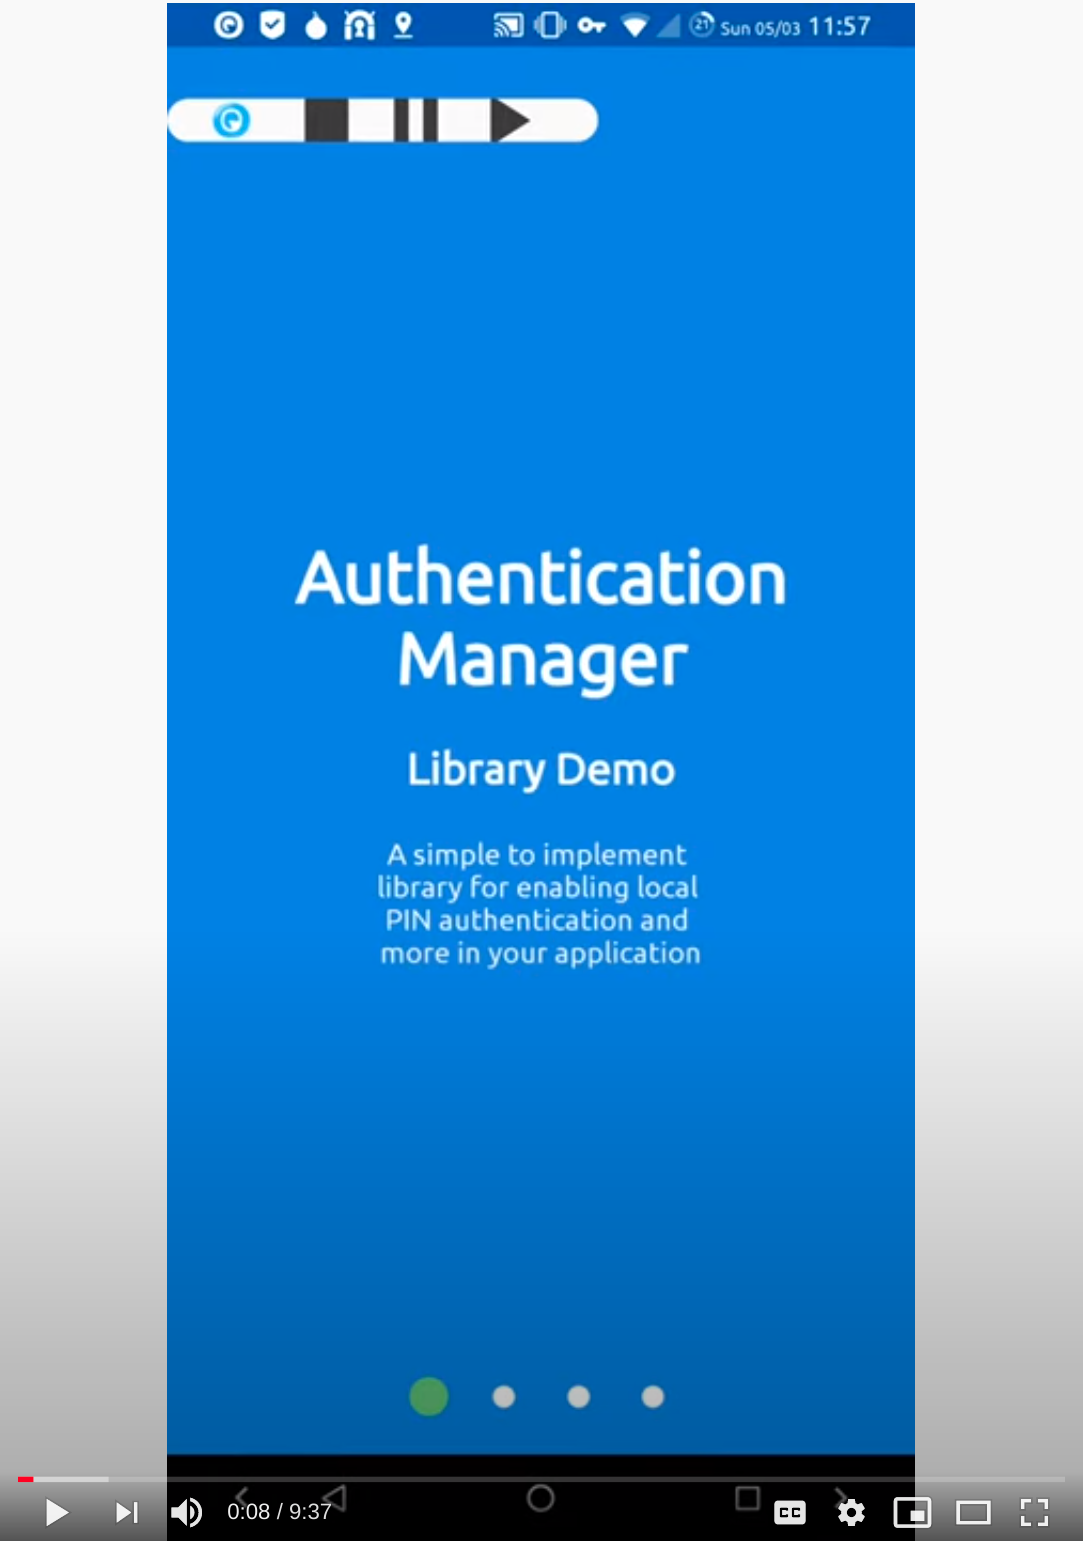
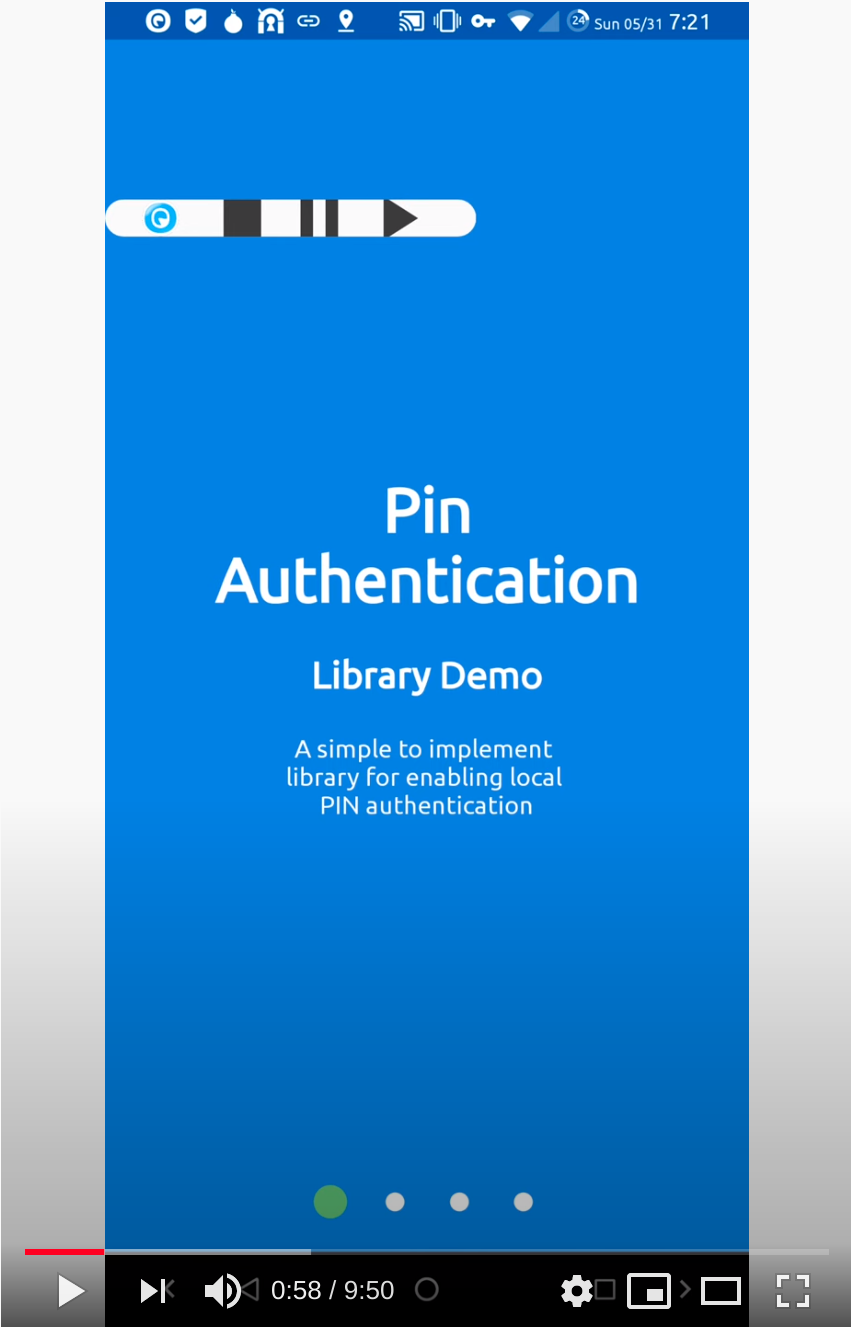
update video link and image

Changed region(s): [[0.0, 0.0, 1.0, 1.0], [0.2444, 0.3399, 0.7638, 0.6488]]

diff --git a/docs/index.md b/docs/index.md
@@ -2,7 +2,7 @@
 An Android library that provides local PIN authentication for your application.
 
 <p align="center">
-<a href="https://www.youtube.com/watch?v=AyLu-6GZ52w" target="_blank"><img src="assets/vid_screenshot.png" width="350"/></a> <img src="assets/activity_screenshot.png" width="250" />
+<a href="https://www.youtube.com/watch?v=wBFvTAmbGKo" target="_blank"><img src="assets/vid_screenshot.png" width="320"/></a> <img src="assets/activity_screenshot.png" width="250" />
 </p>
 
 When your application is brought to the foreground, PinAuthentication will
